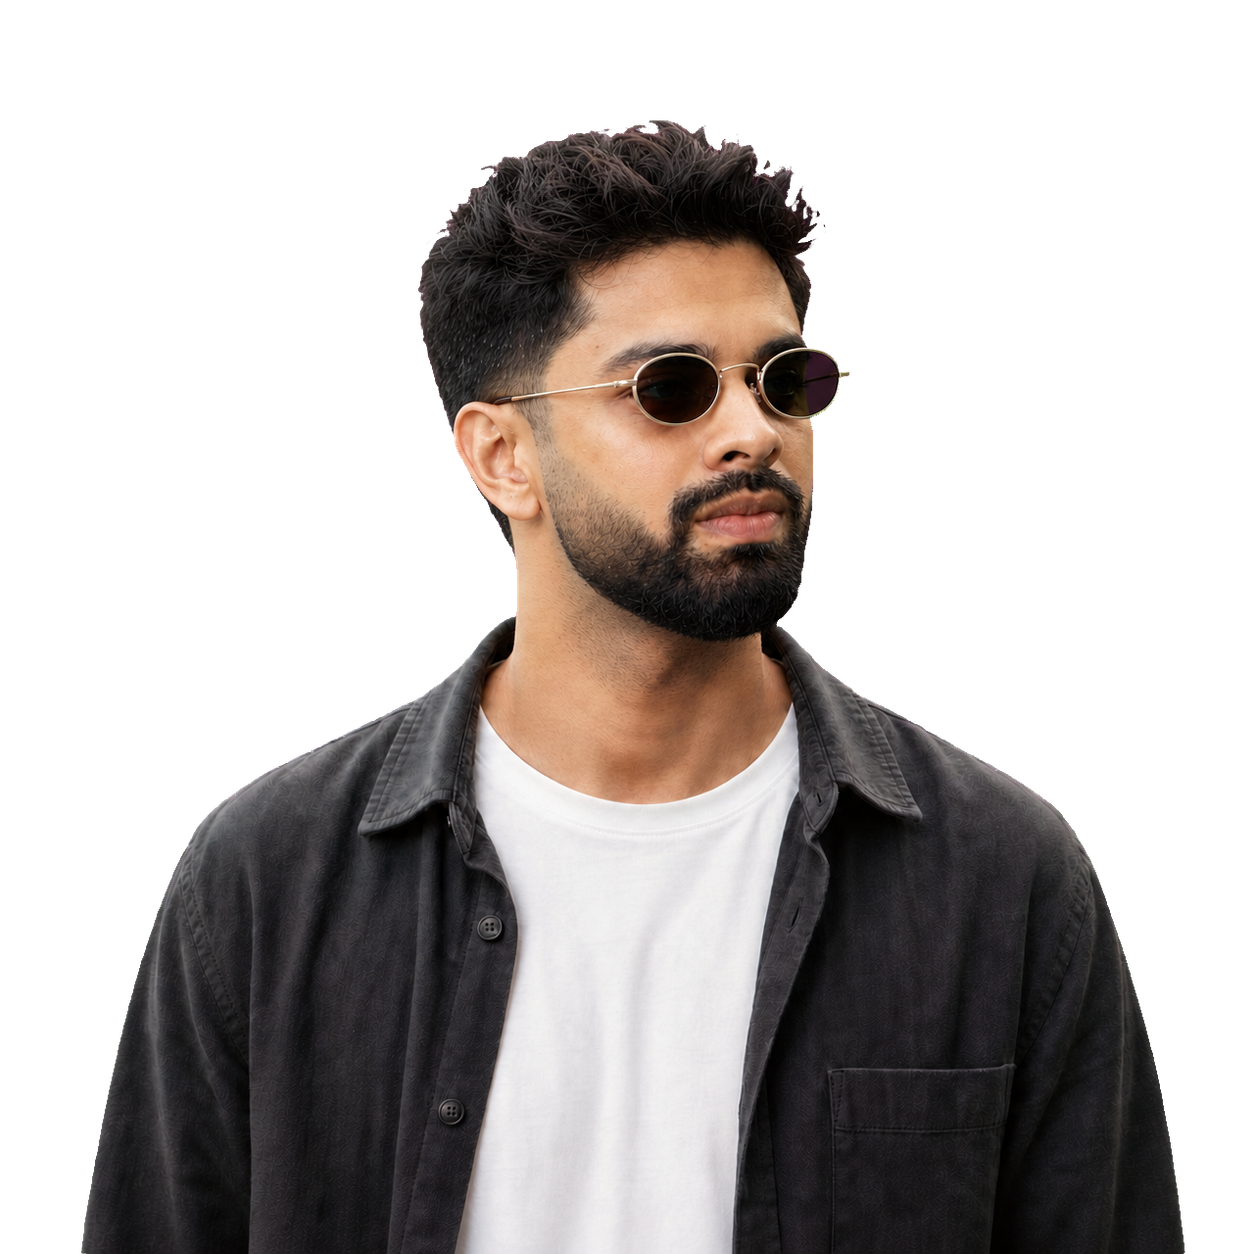
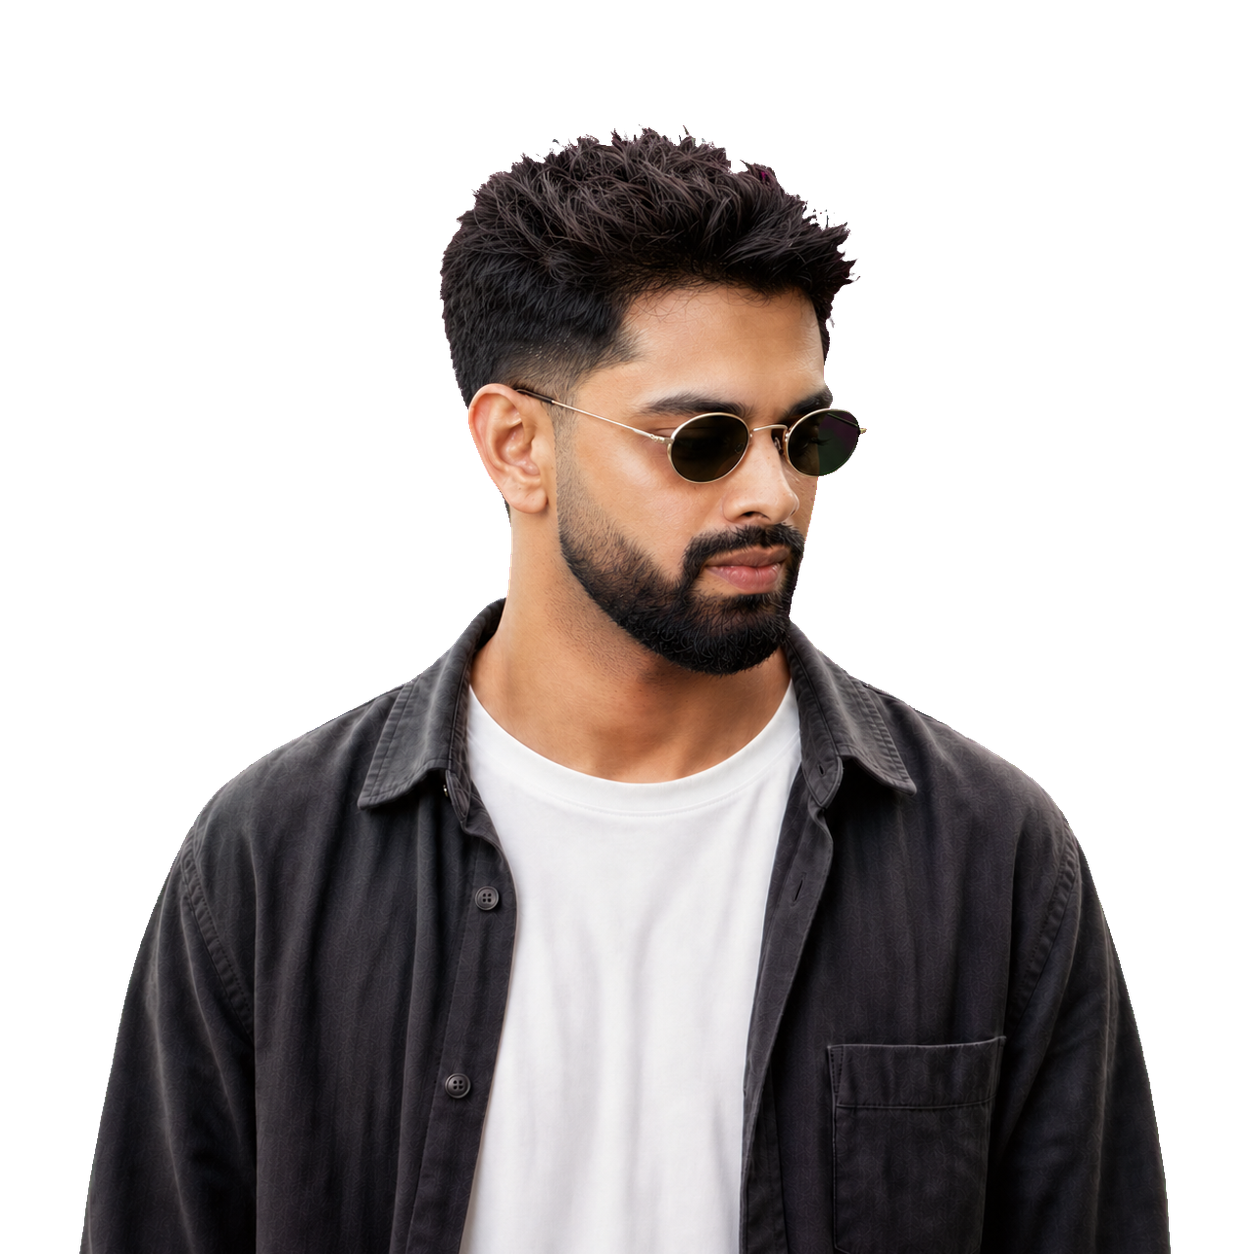
fix(face-motion): smooth right downward transition

diff --git a/public/resume/face-motion/v13/PROMPTS.md b/public/resume/face-motion/v13/PROMPTS.md
@@ -1,6 +1,6 @@
 # V13 side-generation prompts
 
-Both selected endpoints were generated through the Image API with `gpt-image-2`, high quality, a `1280×1280` canvas, and PNG output. Input order is significant and is documented below. The diagonal inputs were fixed references and were not edited.
+The selected endpoints and right-to-bottom-right midpoint were generated through the Image API with `gpt-image-2`, high quality, a `1280×1280` canvas, and PNG output. Input order is significant and is documented below. The diagonal inputs were fixed references and were not edited.
 
 ## Left
 
@@ -22,14 +22,32 @@ Avoid: top-left pose; upward-leading gaze; upward chin; low or narrow crown; com
 
 ```text
 Use case: identity-preserve
-Asset type: corrected right endpoint frame for a smooth interactive website portrait
-Primary request: Edit Image 1 into an unmistakably horizontal screen-right pose. Lower the current upward-leading face and eye direction so the nose, eyeglass bridge, chin, and gaze point straight toward 3 o'clock. This must read as RIGHT, not TOP-RIGHT. At the same time, restore the full tall dense swept hair volume so the outer crown silhouette transitions smoothly from Image 2 without a low section, sudden notch, pinched side, or abrupt crease.
-Input images: Image 1 is the edit target and is authoritative for the horizontal endpoint's framing, subject scale, shoulders, crop, expression, sunglasses, beard, clothes, and lighting. Change only its head/gaze elevation and hair silhouette as requested. Image 2 is the fixed accepted top-right endpoint and is authoritative only for hair identity: match its crown height, crown width, side fullness, density, sweep, hairline, taper, and fine curl texture. Never copy Image 2's upward pose or upward gaze. Image 3 is a supporting identity and wardrobe reference only.
+Asset type: corrected horizontal right endpoint for a smooth interactive website portrait
+Primary request: Edit Image 1 so the face and head are subtly smaller and no longer feel close to the camera, while preserving an unmistakably horizontal screen-right pose at 3 o'clock. Reduce the perceived face/head scale by about 5 percent relative to Image 1 and match the more restrained face scale and camera distance shown by Images 2 and 3. Keep the tall full swept crown and the exact same person.
+Input images: Image 1 is the edit target and is authoritative for the horizontal 3 o'clock head direction, level gaze, expression, full hair style, clothing, lighting, square framing, and bottom crop. Image 2 is the fixed bottom-right endpoint and is authoritative only for natural face/head scale, camera distance, shoulder proportion, and subject placement; do not copy its downward pose or downward gaze. Image 3 is the fixed top-right endpoint and is authoritative only for crown height, width, side fullness, density, sweep, and fine hair texture; do not copy its upward pose or upward gaze. Image 4 is a supporting identity and wardrobe reference only.
 Scene/backdrop: perfectly flat solid #FF00FF chroma-key background covering every background pixel edge to edge, with no texture or variation
 Style/medium: natural high-resolution studio portrait photography matching the supplied person exactly
-Composition/framing: preserve Image 1's square framing, subject size, shoulders, and bottom crop; keep the complete fuller hair silhouette inside the canvas
-Required pose: face and eyes aim horizontally screen-right at 3 o'clock; no upward or downward component; level eyeglass bridge; level chin; no raised face
-Required hair: maintain Image 2's generous crown height and width into the right pose; dense volume across the full top and both side contours; smooth continuous silhouette between the diagonal and right frames; no collapse, notch, sharp inward step, flat patch, or abrupt crease
-Constraints: exactly one person; exactly one pair of round sunglasses with crisp rims and temples; white crew-neck T-shirt; charcoal open overshirt; preserve identity, body, scale, crop, shoulders, lighting, and expression
-Avoid: top-right pose; upward-leading gaze; upward chin; low or narrow crown; compressed hair; abrupt hairline transition; missing side volume; pose drift; zooming; recentering; streaks; rectangular blocks; horizontal or vertical bands; smears; halos; white, black, gray, transparent, or checkerboard background; duplicate or warped glasses; extra accessories; text; logos; watermark
+Composition/framing: preserve the square canvas and bottom crop; keep the shoulders and torso naturally proportioned; create a little more breathing room around the face without shrinking or flattening the crown
+Required pose: face and eyes aim horizontally screen-right at 3 o'clock; no upward or downward component; level eyeglass bridge; level chin
+Required scale: face and head read about 5 percent smaller than Image 1; match the neighboring fixed endpoints' camera distance and proportions; avoid any oversized forehead, glasses, nose, beard, or jaw
+Required hair: retain the full crown height, width, side fullness, density, and smooth silhouette continuity established by Image 3
+Constraints: exactly one person; exactly one pair of round sunglasses with crisp rims and temples; white crew-neck T-shirt; charcoal open overshirt; preserve identity, expression, hair identity, lighting, wardrobe, and body proportions
+Avoid: large close-up face; oversized head; top-right pose; bottom-right pose; upward or downward gaze; low or narrow crown; compressed hair; abrupt hairline transition; zooming in; recentering drift; streaks; rectangular blocks; bands; smears; halos; white, black, gray, transparent, or checkerboard background; duplicate or warped glasses; extra accessories; text; logos; watermark
+```
+
+## Right to bottom-right midpoint
+
+```text
+Use case: identity-preserve
+Asset type: one exact midpoint frame for a smooth interactive website portrait transition
+Primary request: Generate one new portrait that is the precise 50 percent visual midpoint between Image 1 and Image 2. The motion starts at Image 1, with the face looking horizontally screen-right at 3 o'clock, and ends at Image 2, with the face looking down-right. Interpolate every visible change evenly so the two hops—Image 1 to the new frame, then the new frame to Image 2—have equal perceived motion.
+Input images: Image 1 is the newly corrected right endpoint and is authoritative for the starting identity, smaller face/head scale, horizontal pose, full hair, clothing, lighting, and framing. Image 2 is the fixed bottom-right endpoint and is authoritative for the ending pose, gaze, scale, vertical placement, shoulder placement, hair silhouette, clothing, lighting, and framing. Image 3 is a supporting identity and wardrobe reference only.
+Scene/backdrop: perfectly flat solid #FF00FF chroma-key background covering every background pixel edge to edge, with no texture or variation
+Style/medium: natural high-resolution studio portrait photography matching the supplied person exactly
+Composition/framing: preserve the square canvas and bottom crop; place the face, head, shoulders, and torso exactly halfway between their positions and scales in Images 1 and 2
+Required pose: head pitch and eye gaze exactly halfway from horizontal screen-right at 3 o'clock to the down-right pose in Image 2; clearly down-right but only half as low as Image 2; no upward component
+Required motion continuity: face/head size, eye line, chin height, nose position, eyeglass angle, shoulder height, torso position, and crop must each be at the true geometric and perceptual midpoint; do not keep the frame too close to either endpoint
+Required hair: interpolate the complete hair silhouette evenly between the two endpoints while retaining a full crown, natural side volume, density, sweep, and fine texture
+Constraints: exactly one person; exactly one pair of round sunglasses with crisp rims and temples; white crew-neck T-shirt; charcoal open overshirt; preserve identity, expression, beard, hair identity, lighting, wardrobe, and body proportions
+Avoid: frame too similar to Image 1; frame too similar to Image 2; oversized face; sudden zoom; abrupt vertical jump; upward gaze; low or narrow crown; compressed hair; recentering drift; streaks; rectangular blocks; bands; smears; halos; white, black, gray, transparent, or checkerboard background; duplicate or warped glasses; extra accessories; text; logos; watermark
 ```

diff --git a/public/resume/face-motion/v13/README.md b/public/resume/face-motion/v13/README.md
@@ -6,9 +6,9 @@ Only border-connected magenta background removal and uniform canvas normalizatio
 
 The live graph currently has nine independently generated GPT Image 2 transition frames: three for top, two for left, one each for bottom, top-left, and top-right, and one for the right-to-bottom-right ring edge. Each was accepted only after visual and pose QA; failed or off-axis generations remain outside the runtime. The runtime reverses the same approved frame when travelling back across an edge, so motion stays symmetric.
 
-The extreme left and right endpoints were corrected with GPT Image 2 to point horizontally at 9 and 3 o'clock. `top-left.webp` and `top-right.webp` stayed byte-for-byte fixed and were supplied only as hair references for crown height, width, side fullness, texture, and identity. This keeps the tall swept crown continuous while leaving the diagonal endpoints and their upward head angles untouched.
+The extreme left and right endpoints were corrected with GPT Image 2 to point horizontally at 9 and 3 o'clock. The right endpoint received a second GPT Image 2 pass to reduce its face/head scale while preserving its level 3 o'clock pose and full crown. `top-left.webp` and `top-right.webp` stayed byte-for-byte fixed and were supplied only as hair references for crown height, width, side fullness, texture, and identity. This keeps the tall swept crown continuous while leaving the diagonal endpoints and their upward head angles untouched.
 
-The `right` to `bottom-right` midpoint was rebuilt from its clean magenta GPT Image 2 source so the runtime no longer uses the previously exported frame that could reveal the portrait-stage background for one tick.
+The `right` to `bottom-right` midpoint was regenerated from the corrected right endpoint and the fixed bottom-right endpoint. A small uniform pre-key scale and canvas alignment places its outer bounds at the measured halfway position: the hair top advances 21 pixels from right to midpoint and 23 pixels from midpoint to bottom-right, while subject height changes 21 pixels and 23 pixels. This removes the apparent zoom/position pulse and keeps the transparent stage clean.
 
 `portrait-neutral.webp` is a byte-for-byte copy of `center.webp`. The automated asset verifier checks all nine endpoints for inventory, manifest hashes, lossless VP8L encoding, exact `1254×1254` dimensions, decoded uniqueness, and center/poster parity.
 

diff --git a/public/resume/face-motion/v13/VALIDATION.md b/public/resume/face-motion/v13/VALIDATION.md
@@ -14,11 +14,11 @@ PASS: nine `1254×1254` lossless WebP endpoints were built from accepted GPT Ima
 | top-right    |  `[72, 92, 1192, 1254]` |       739,480 |          6,687 |    729,288 |
 | left         | `[67, 109, 1194, 1254]` |       738,197 |         11,265 |    856,716 |
 | center       |  `[69, 99, 1196, 1254]` |       724,528 |          5,973 |    760,630 |
-| right        |  `[69, 76, 1191, 1254]` |       753,040 |         12,515 |    918,682 |
+| right        | `[92, 101, 1163, 1254]` |       724,695 |         10,547 |    853,592 |
 | bottom-left  | `[74, 128, 1199, 1254]` |       732,368 |          6,483 |    725,340 |
 | bottom       | `[69, 115, 1196, 1254]` |       724,959 |          5,686 |    719,452 |
 | bottom-right | `[59, 145, 1182, 1254]` |       706,047 |          6,352 |    715,492 |
 
-Visual inspection confirmed crisp lenses and metal rims without doubled or vertically smeared eyewear, clearly horizontal 9 and 3 o'clock side poses, full crown continuity from each untouched diagonal reference, visible authored up/down movement, and the generated white crew-neck plus charcoal open overshirt in all nine endpoints. The rebuilt `right` to `bottom-right` transition remains a visible lossless `1254×1254` frame with alpha bounds `[79, 117, 1188, 1254]`.
+Visual inspection confirmed crisp lenses and metal rims without doubled or vertically smeared eyewear, clearly horizontal 9 and 3 o'clock side poses, full crown continuity from each untouched diagonal reference, visible authored up/down movement, and the generated white crew-neck plus charcoal open overshirt in all nine endpoints. The smaller corrected right face remains naturally proportioned against its neighbors. The regenerated `right` to `bottom-right` transition is a visible lossless `1254×1254` frame with alpha bounds `[77, 122, 1173, 1254]`, 715,429 opaque pixels, 10,842 partial pixels, and 797,790 bytes. Its outer bounds progress in near-equal steps between the endpoints, with no opaque background or blank frame.
 
 Run `bun run verify:face-motion` to recreate the machine-readable QA report and contact sheet in `build/face-motion-qa/`.
